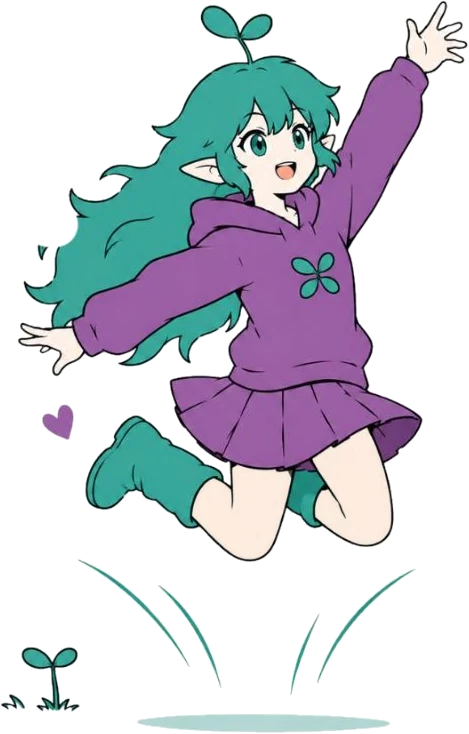
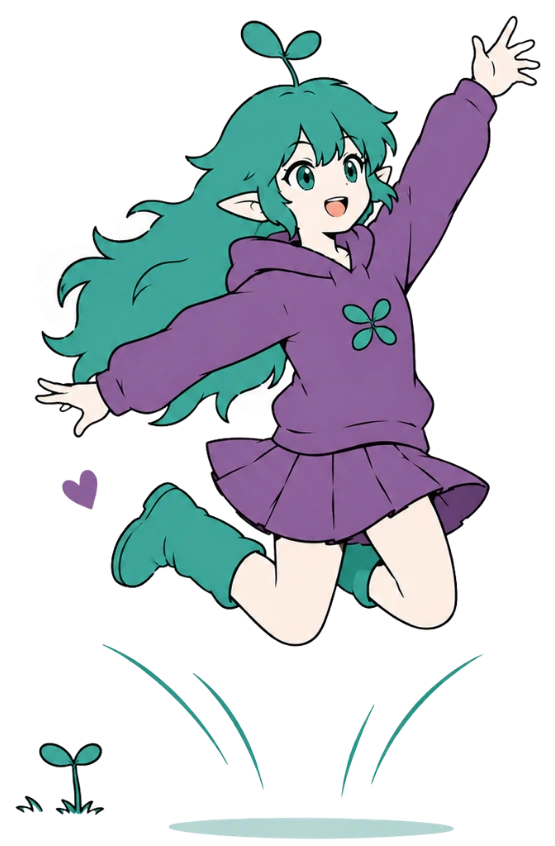
Remplace l'illustration Mavka "saut" (m-jump) par la version complète
L'ancien fichier recadrait la chevelure sur le bord gauche. Remplacé
par le nouveau visuel fourni par Larysa, recadré au plus près du
contenu (marge de 15px) en conservant l'alpha — même proportion
qu'avant (~0,64), donc aucun ajustement de mise en page nécessaire
au-delà du viewBox/dimensions du symbole SVG, mis à jour partout où
il est déclaré (index.php, intervenant.php, site_functions.php).

diff --git a/index.php b/index.php
@@ -49,7 +49,7 @@ $site_activites_initiatives = site_enrichir_avec_photo_intervenant(site_activite
   </div>
 </header>
 
-<main><svg width="0" height="0" style="position:absolute" aria-hidden="true"><symbol id="m-stand" viewBox="0 0 310 769"><image href="/assets/site-img/img-02-33b2e93d45.webp" width="310" height="769"/></symbol><symbol id="m-wave" viewBox="0 0 626 722"><image href="/assets/site-img/img-03-1d459c08a4.webp" width="626" height="722"/></symbol><symbol id="m-magnify" viewBox="0 0 552 756"><image href="/assets/site-img/img-04-3b8dc488ec.webp" width="552" height="756"/></symbol><symbol id="m-jump" viewBox="0 0 469 734"><image href="/assets/site-img/img-05-10df6582b6.webp" width="469" height="734"/></symbol><symbol id="m-read" viewBox="0 0 549 767"><image href="/assets/site-img/img-06-3bc40d08fc.webp" width="549" height="767"/></symbol><symbol id="m-point" viewBox="0 0 404 867"><image href="/assets/site-img/img-07-b2cfcc755b.webp" width="404" height="867"/></symbol><symbol id="m-logo" viewBox="0 0 574 587"><image href="/assets/site-img/img-01-017fac3c9d.webp" width="574" height="587"/></symbol></svg>
+<main><svg width="0" height="0" style="position:absolute" aria-hidden="true"><symbol id="m-stand" viewBox="0 0 310 769"><image href="/assets/site-img/img-02-33b2e93d45.webp" width="310" height="769"/></symbol><symbol id="m-wave" viewBox="0 0 626 722"><image href="/assets/site-img/img-03-1d459c08a4.webp" width="626" height="722"/></symbol><symbol id="m-magnify" viewBox="0 0 552 756"><image href="/assets/site-img/img-04-3b8dc488ec.webp" width="552" height="756"/></symbol><symbol id="m-jump" viewBox="0 0 555 846"><image href="/assets/site-img/img-05-10df6582b6.webp" width="555" height="846"/></symbol><symbol id="m-read" viewBox="0 0 549 767"><image href="/assets/site-img/img-06-3bc40d08fc.webp" width="549" height="767"/></symbol><symbol id="m-point" viewBox="0 0 404 867"><image href="/assets/site-img/img-07-b2cfcc755b.webp" width="404" height="867"/></symbol><symbol id="m-logo" viewBox="0 0 574 587"><image href="/assets/site-img/img-01-017fac3c9d.webp" width="574" height="587"/></symbol></svg>
 
 <!-- ============ ACCUEIL ============ -->
 <div class="page" id="page-accueil">
@@ -179,7 +179,7 @@ $site_activites_initiatives = site_enrichir_avec_photo_intervenant(site_activite
           <a class="btn btn-ghost" href="#contact">Nous faire part de votre intérêt</a>
         </div>
       </div>
-      <div class="dir-art"><svg class="mascot tall" viewBox="0 0 469 734" style="aspect-ratio:469/734"><use href="#m-jump"/></svg></div>
+      <div class="dir-art"><svg class="mascot tall" viewBox="0 0 555 846" style="aspect-ratio:555/846"><use href="#m-jump"/></svg></div>
     </div>
   </section>
 </div>

diff --git a/intervenant.php b/intervenant.php
@@ -257,7 +257,7 @@ if ($iv) {
   <symbol id="m-stand" viewBox="0 0 310 769"><image href="/assets/site-img/img-02-33b2e93d45.webp" width="310" height="769"/></symbol>
   <symbol id="m-wave" viewBox="0 0 626 722"><image href="/assets/site-img/img-03-1d459c08a4.webp" width="626" height="722"/></symbol>
   <symbol id="m-magnify" viewBox="0 0 552 756"><image href="/assets/site-img/img-04-3b8dc488ec.webp" width="552" height="756"/></symbol>
-  <symbol id="m-jump" viewBox="0 0 469 734"><image href="/assets/site-img/img-05-10df6582b6.webp" width="469" height="734"/></symbol>
+  <symbol id="m-jump" viewBox="0 0 555 846"><image href="/assets/site-img/img-05-10df6582b6.webp" width="555" height="846"/></symbol>
   <symbol id="m-read" viewBox="0 0 549 767"><image href="/assets/site-img/img-06-3bc40d08fc.webp" width="549" height="767"/></symbol>
   <symbol id="m-point" viewBox="0 0 404 867"><image href="/assets/site-img/img-07-b2cfcc755b.webp" width="404" height="867"/></symbol>
 </svg>

diff --git a/includes/site_functions.php b/includes/site_functions.php
@@ -155,7 +155,7 @@ function site_categorie_habillage(string $categorie): array {
         'Culture'                  => ['cover' => 'sun',   'mascot' => 'm-magnify', 'vb' => '0 0 552 756'],
         'Éducation'                => ['cover' => 'lilac', 'mascot' => 'm-read',    'vb' => '0 0 549 767'],
         'Bien-être'                => ['cover' => 'mint',  'mascot' => 'm-stand',   'vb' => '0 0 310 769'],
-        'Initiatives'               => ['cover' => 'lilac', 'mascot' => 'm-jump',    'vb' => '0 0 469 734'],
+        'Initiatives'               => ['cover' => 'lilac', 'mascot' => 'm-jump',    'vb' => '0 0 555 846'],
     ];
     return $map[$categorie] ?? ['cover' => 'mint', 'mascot' => 'm-wave', 'vb' => '0 0 626 722'];
 }
